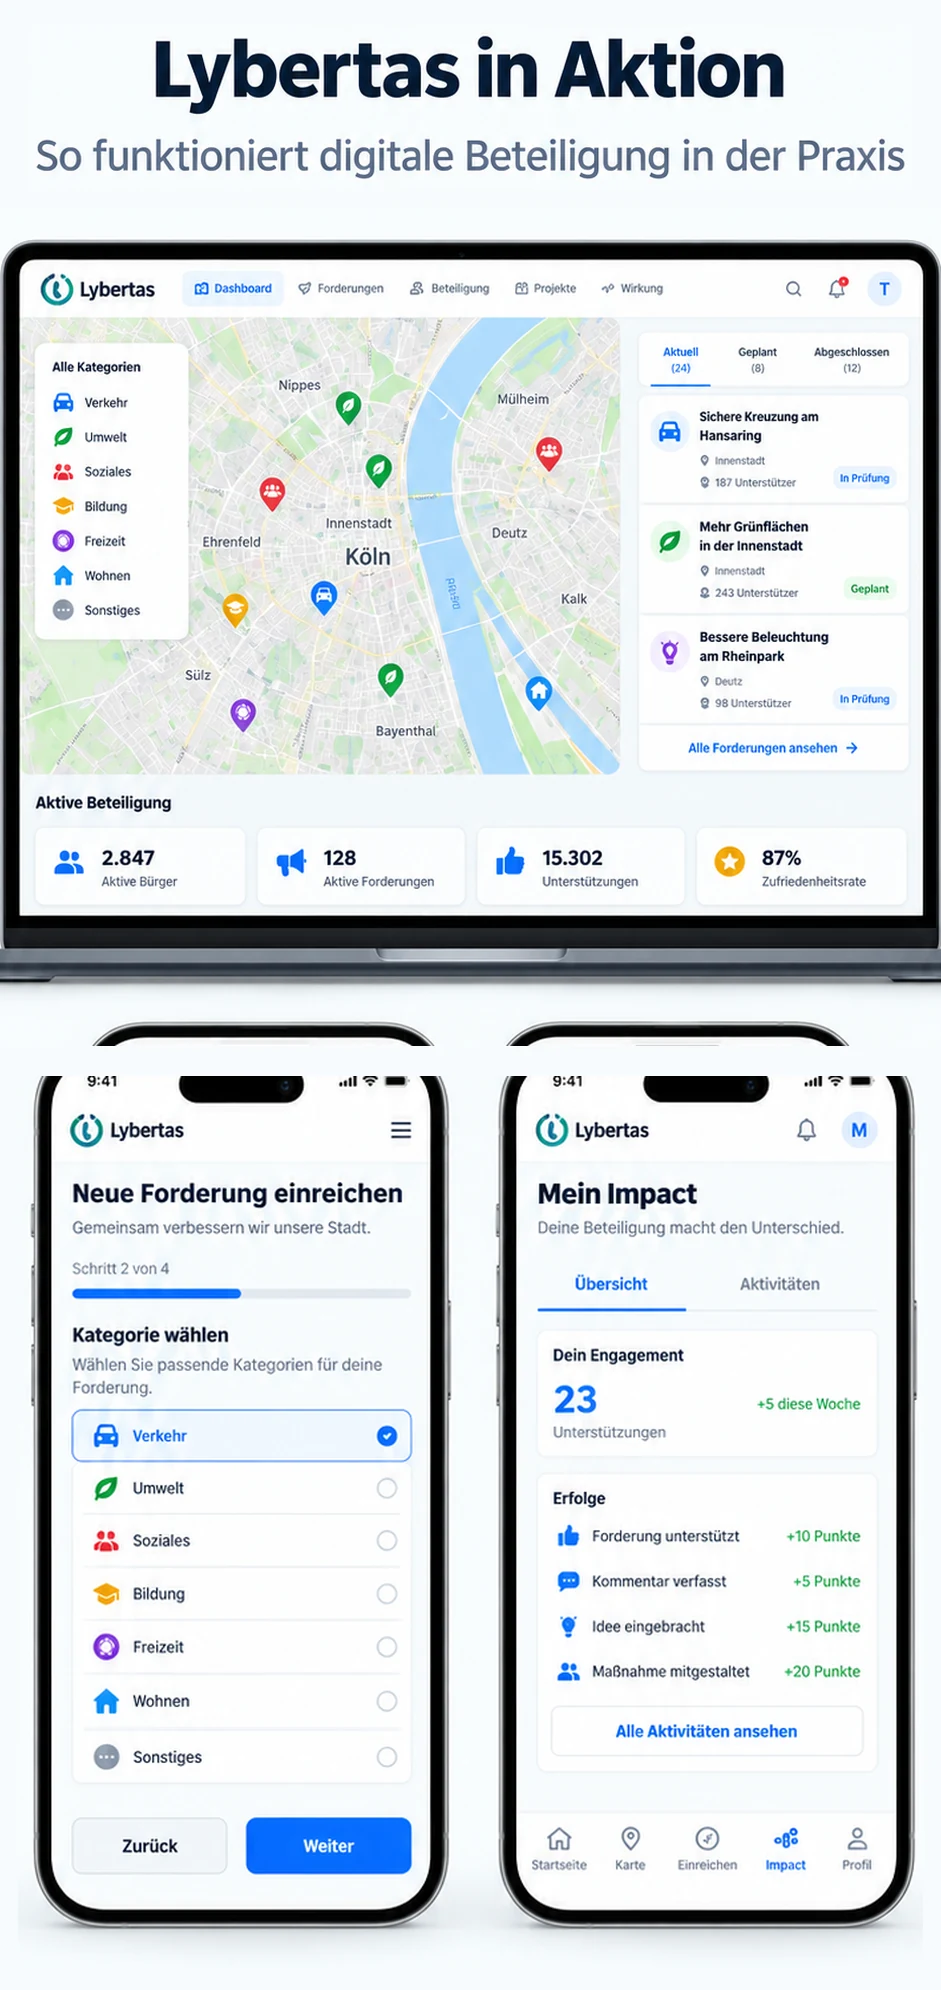
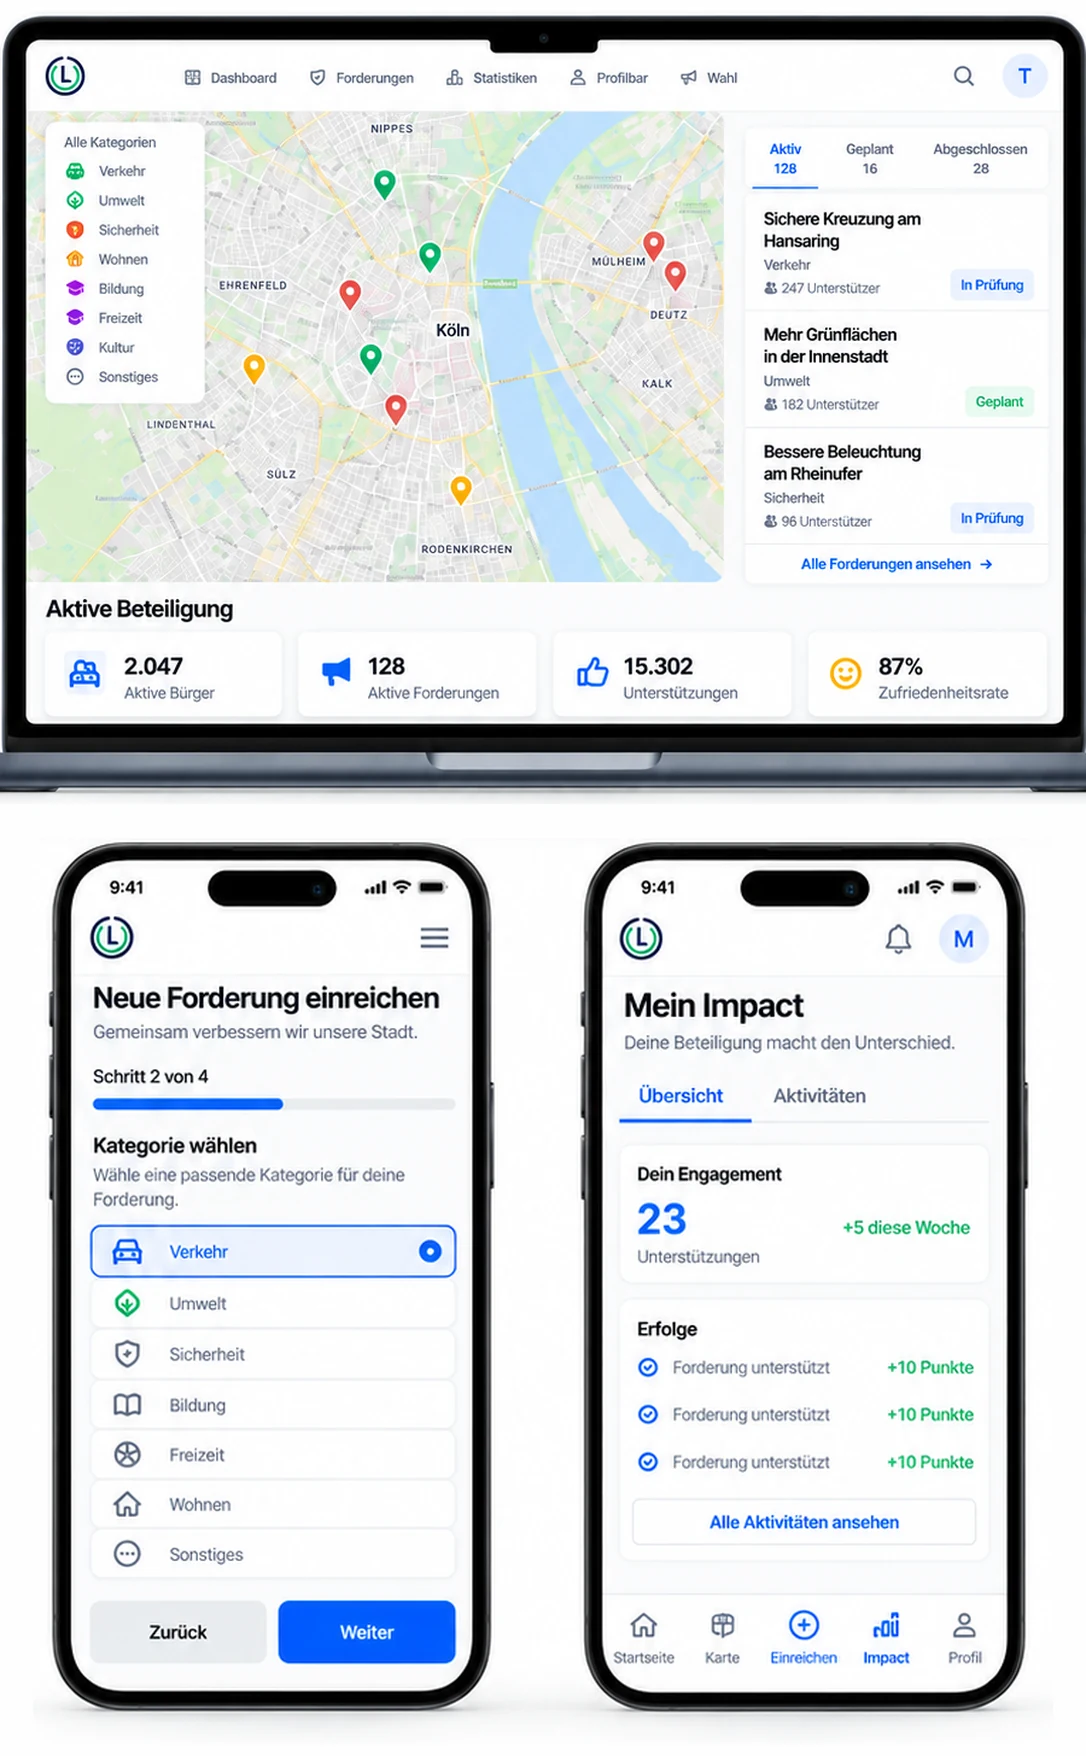
Handy-Grafik ersetzen und Ueberschrift als echten Text setzen
- Neue gelieferte Vorlage eingesetzt; Laptop und Handys sind daraus
  einzeln freigestellt, der Schnitt liegt jetzt in der leeren Zeile
  zwischen beiden Bloecken – dadurch keine Doppelkante mehr an der
  Oberkante der Handys
- Laptop laeuft ueber die volle Breite, der Sockel bewusst aus dem Bild
- Titel und Unterzeile stehen auf dem Handy als echter Text im
  Seitenstil (section-title / section-subtitle); auf dem Desktop
  traegt die Grafik den Titel weiterhin selbst
- Sektionsgrund an den weissen Hintergrund der neuen Grafik angepasst

Claude-Session: https://claude.ai/code/session_01K334GKwfPgR9YNbPeDneBj

diff --git a/index.html b/index.html
@@ -276,9 +276,14 @@
     ============================================================ -->
     <section class="showcase-section" aria-labelledby="showcaseTitle">
       <div class="container">
-        <!-- Beide Fassungen der Grafik tragen den Titel selbst, der Textblock
-             ist deshalb nur fuer Screenreader da. -->
-        <h2 id="showcaseTitle" class="sr-only">Lybertas in Aktion – so funktioniert digitale Beteiligung in der Praxis</h2>
+        <!-- Ueberschrift: Die Handy-Fassung der Grafik hat keinen eingebauten
+             Titel mehr, dort wird er als echter Text gesetzt. Die
+             Desktop-Grafik traegt ihn weiterhin selbst – deshalb ist der
+             Block dort nur fuer Screenreader vorhanden. -->
+        <div class="showcase-head">
+          <h2 id="showcaseTitle" class="section-title">Lybertas in Aktion</h2>
+          <p class="section-subtitle">So funktioniert digitale Beteiligung in der Praxis</p>
+        </div>
 
         <!-- Auf dem Handy die Hochkant-Fassung: Laptop oben ueber die volle
              Breite, darunter die beiden Handy-Ansichten. So sind die
@@ -286,7 +291,7 @@
         <picture>
           <source media="(max-width: 767px)"
                   srcset="./assets/screenshots/lybertas-in-aktion-mobil.webp"
-                  width="941" height="1990" />
+                  width="1086" height="1756" />
           <img class="mockup" src="./assets/screenshots/lybertas-in-aktion.webp"
                alt="Lybertas in Aktion: Dashboard mit Karte auf dem Laptop sowie Forderung einreichen und Impact-Ansicht auf dem Smartphone"
                width="1400" height="933" loading="lazy" />

diff --git a/styles.css b/styles.css
@@ -1967,6 +1967,20 @@ h1, h2, h3, h4 {
   box-shadow: none;
 }
 
+/* Auf dem Desktop traegt die Grafik den Titel selbst – der Textblock ist
+   dort nur fuer Screenreader da (gleiche Technik wie .sr-only). */
+.showcase-head {
+  position: absolute;
+  width: 1px;
+  height: 1px;
+  padding: 0;
+  margin: -1px;
+  overflow: hidden;
+  clip: rect(0,0,0,0);
+  white-space: nowrap;
+  border: 0;
+}
+
 /* ---- Handy: Hochkant-Fassung randlos und moeglichst gross ----
    Die Grafik laeuft von Kante zu Kante, weil die seitliche Polsterung
    des Containers die Oberflaechen sonst zu klein macht. Der
@@ -1974,8 +1988,8 @@ h1, h2, h3, h4 {
    keine Naht sichtbar wird. */
 @media (max-width: 767px) {
   .showcase-section {
-    background: #f7fcfe;
-    padding: 0 0 var(--space-lg);
+    background: #fefefe;
+    padding: var(--space-2xl) 0 var(--space-lg);
   }
 
   .showcase-section > .container {
@@ -1987,6 +2001,27 @@ h1, h2, h3, h4 {
     max-width: none;
     width: 100%;
     border-radius: 0;
+  }
+
+  /* Ueberschrift wie in den uebrigen Abschnitten, nur enger gesetzt */
+  .showcase-head {
+    position: static;
+    width: auto;
+    height: auto;
+    margin: 0 0 var(--space-xl);
+    overflow: visible;
+    clip: auto;
+    white-space: normal;
+    padding: 0 var(--space-lg);
+    text-align: center;
+  }
+
+  .showcase-head .section-title { margin-bottom: var(--space-sm); }
+
+  .showcase-head .section-subtitle {
+    margin: 0 auto;
+    max-width: 34ch;
+    text-wrap: balance;   /* verhindert ein einzelnes Wort in der 2. Zeile */
   }
 
   /* Der folgende Abschnitt ruecht naeher heran, damit die Grafik nicht
